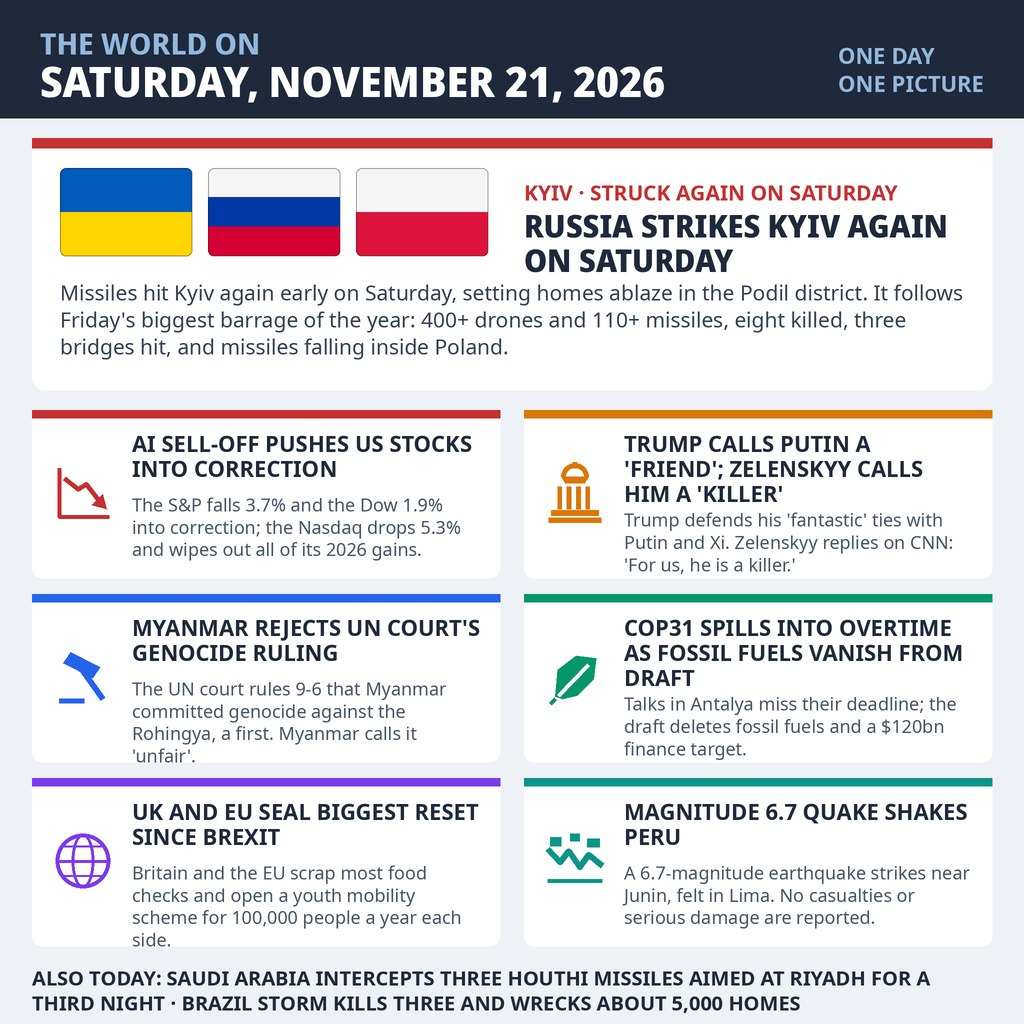
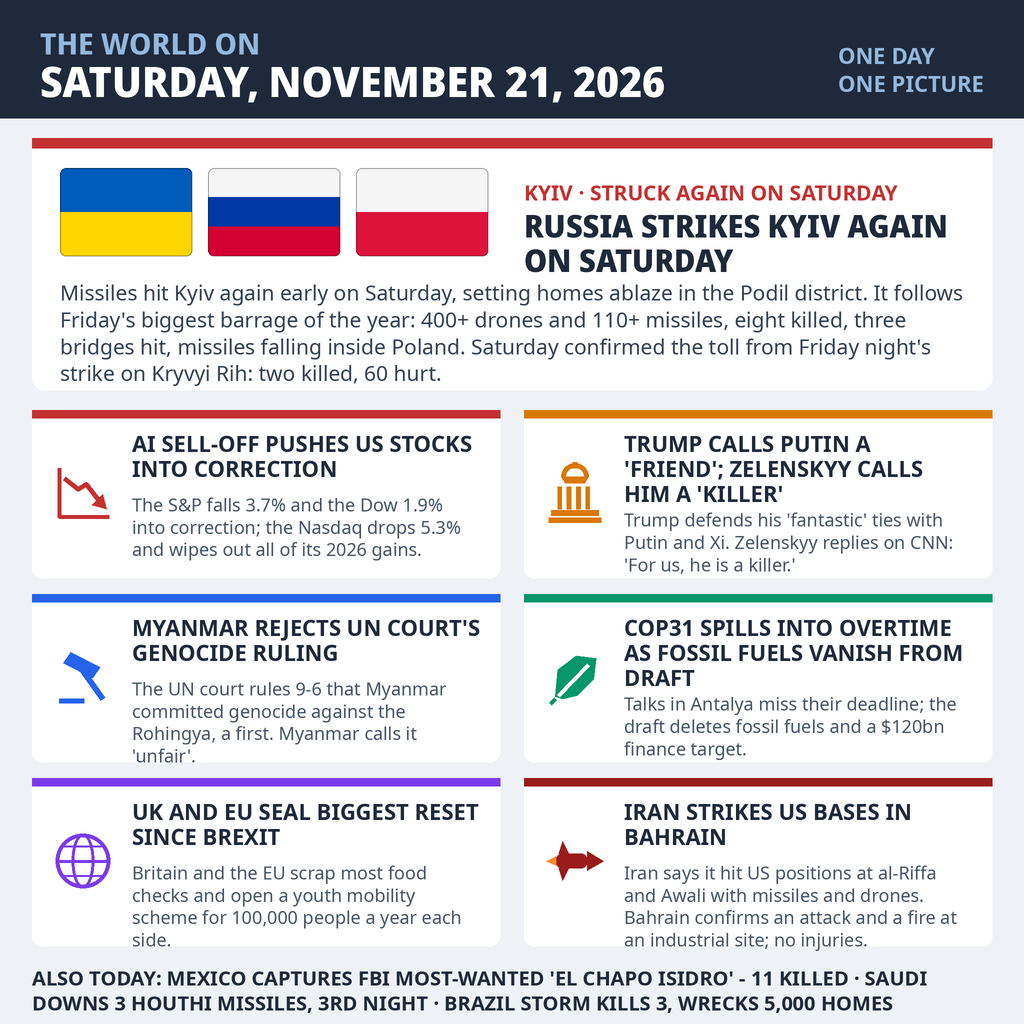
news-image-20261121 revised entry: final Saturday news (Bahrain strike, Mexico capture, Kryvyi Rih toll); rescore 49/50

Changed region(s): [[0.0312, 0.75, 0.9688, 1.0], [0.0625, 0.3125, 0.9062, 0.375]]

diff --git a/main.ts b/main.ts
@@ -7,6 +7,13 @@
  * thing: it checks the bundled file is a legal entry image and publishes
  * it, byte for byte, as /output/entry.png.
  *
+ * Revised entry (2026-11-22 refresh): the image now covers the final
+ * Saturday news — Iran's evening strike on US bases in Bahrain, Mexico's
+ * capture of FBI most-wanted cartel boss "El Chapo Isidro", and the
+ * confirmed Kryvyi Rih toll — which the first submitted version missed.
+ * The drawing code for the revision lives in tools/gen_revised.py next to
+ * the original generator; the layout is the same panel grid.
+ *
  * Checks performed before anything is written:
  *   - the PNG magic bytes are present,
  *   - the first chunk is IHDR and its dimensions are within 1024x1024,

diff --git a/README.md b/README.md
@@ -13,7 +13,8 @@ The day's main stories, in one 1024×1024 panel grid:
 1. **Russia strikes Kyiv again on Saturday** — missiles hit Kyiv early on Saturday,
    setting homes ablaze in the Podil district, a day after the year's biggest barrage:
    more than 400 drones and 110 missiles, eight people killed, three bridges over the
-   Dnipro hit, and Russian missiles falling inside Poland.
+   Dnipro hit, and Russian missiles falling inside Poland. Saturday also confirmed the
+   toll from Friday night's strike on Kryvyi Rih: two killed, 60 hurt.
 2. **AI sell-off pushes US stocks into correction** — the S&P 500 falls 3.7% and the Dow
    1.9%, while the Nasdaq drops 5.3% and wipes out all of its 2026 gains. Anthropic
    shares slide for a second day; the SEC is reported to be probing Nvidia's accounting.
@@ -30,17 +31,21 @@ The day's main stories, in one 1024×1024 panel grid:
 6. **UK and EU seal the biggest reset since Brexit** — at a Brussels summit, Britain and
    the EU agree to scrap most food and farm checks, link their carbon markets, and open a
    youth mobility scheme for 100,000 people a year aged 18 to 31 on each side.
-7. **Magnitude 6.7 quake shakes Peru** — a 6.7-magnitude earthquake strikes near Junín in
-   central Peru, felt in Lima, where residents rush into the streets. No casualties or
-   serious damage are reported.
+7. **Iran strikes US bases in Bahrain** — Iran says it hit US positions at al-Riffa
+   and Awali with missiles and drones on Saturday evening. Bahrain confirms an attack
+   and a fire at an industrial site; no injuries are reported.
 
-Also noted: Saudi Arabia intercepts three Houthi missiles aimed at Riyadh for a third
+Also noted: Mexico captures FBI most-wanted cartel boss "El Chapo Isidro" (11 killed),
+Saudi Arabia intercepts three Houthi missiles aimed at Riyadh for a third
 night, and a storm in Brazil kills three and wrecks about 5,000 homes.
 
 ## How it was built
 
 Ten candidate layouts were drawn programmatically (Python/PIL) from a verified news
-slate and scored on the five judging criteria; the winner is `entry.png`.
+slate and scored on the five judging criteria; the winner is `entry.png`. A refresh
+on the evening of November 22 added the final Saturday news — the Bahrain strike,
+the Mexico capture and the confirmed Kryvyi Rih toll — and the revised image scored
+49/50 against the first version's 47/50, so the entry was resubmitted with it.
 `main.ts` (Node 22, standard library only) validates the PNG — magic bytes, IHDR
 dimensions, the 1 MiB cap, and every chunk's CRC — and publishes it to `/output/entry.png`.
 
